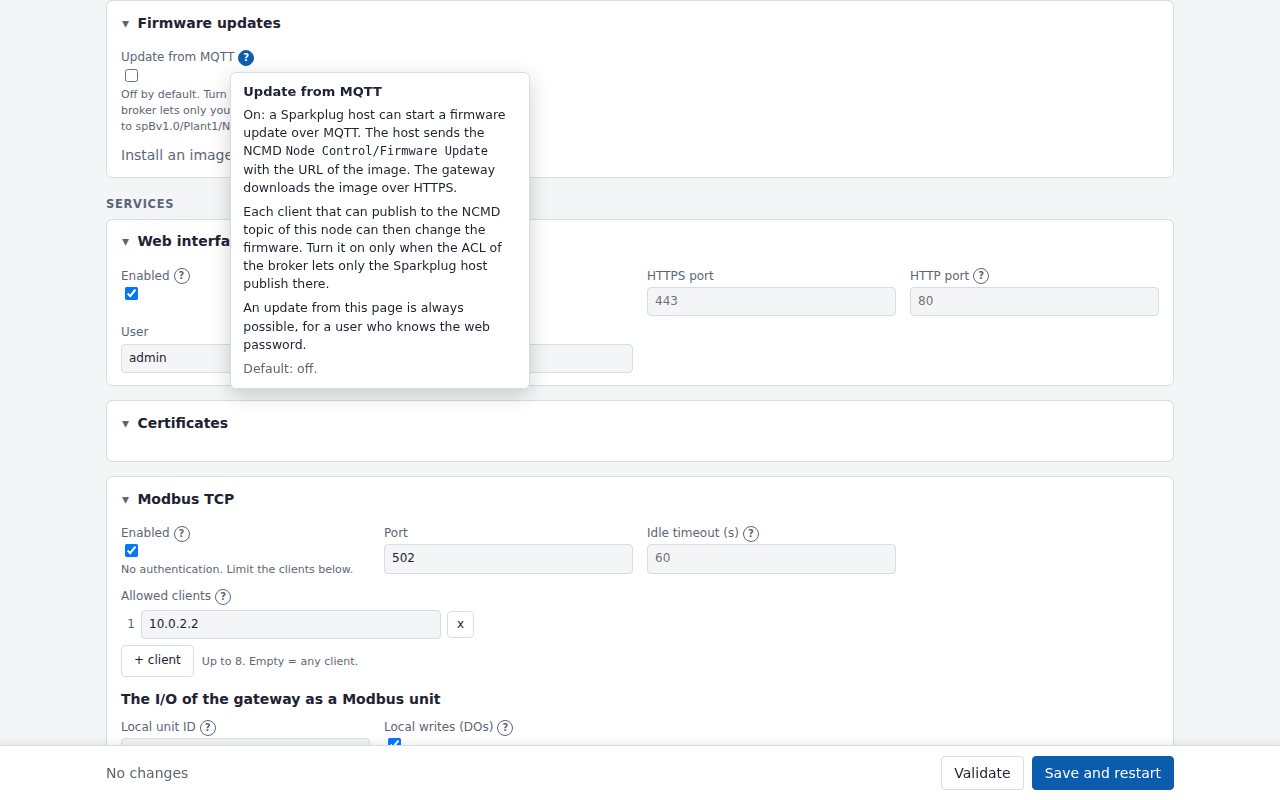
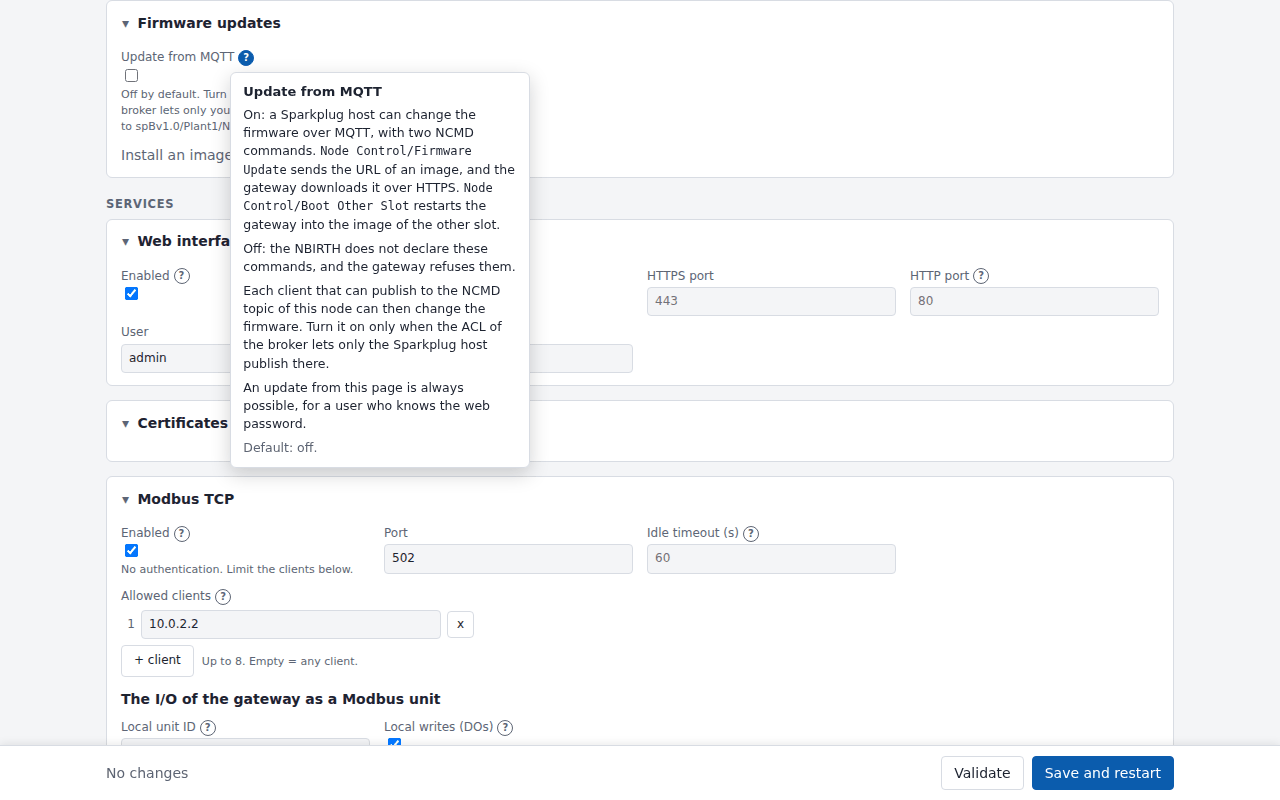
E2E #207: search the end of the LED pattern from its start; docs image
The LED task and the buzzer task end the identify independently. In a
full run the LED went back 16 ms before the buzzer logged "identify
over", and the check searched the LED line only after that log line.
The check now searches it from the start of the pattern. It still
requires the LED to leave the identify pattern.

The screenshot firmware-updates-card.png shows the new explainer of
Update from MQTT.

Refs #207, #223

Claude-Session: https://claude.ai/code/session_0182b7B3xrC3XDDQTVd1D4ub

Changed region(s): [[0.1875, 0.125, 0.4062, 0.5938]]

diff --git a/idf/tools/e2e/e2e.py b/idf/tools/e2e/e2e.py
@@ -8316,7 +8316,9 @@ def check_admin_web(gw, nb, status, status_body, doc, page_text, t0):
     st_i2, _, b_i2 = http("POST", "/api/identify")
     j_i2 = as_json(b_i2) or {}
     over = gw.wait_log(r"buzzer: identify over \(simulated\)", 15, t_id)
-    back = gw.wait_log(r"led: status: (?!identify)", 3, over or t_id) if over else None
+    # the LED task and the buzzer task end the identify independently: the LED can go back a few
+    # ms before the buzzer logs "over", so the LED line is searched from the start of the pattern
+    back = gw.wait_log(r"led: status: (?!identify)", 3, led) if over and led else None
     asked = time.monotonic()
     gw.console("identify")
     sh1 = gw.wait_log(r"^identify: the LED shows red, green and blue in turn and the buzzer beeps "
